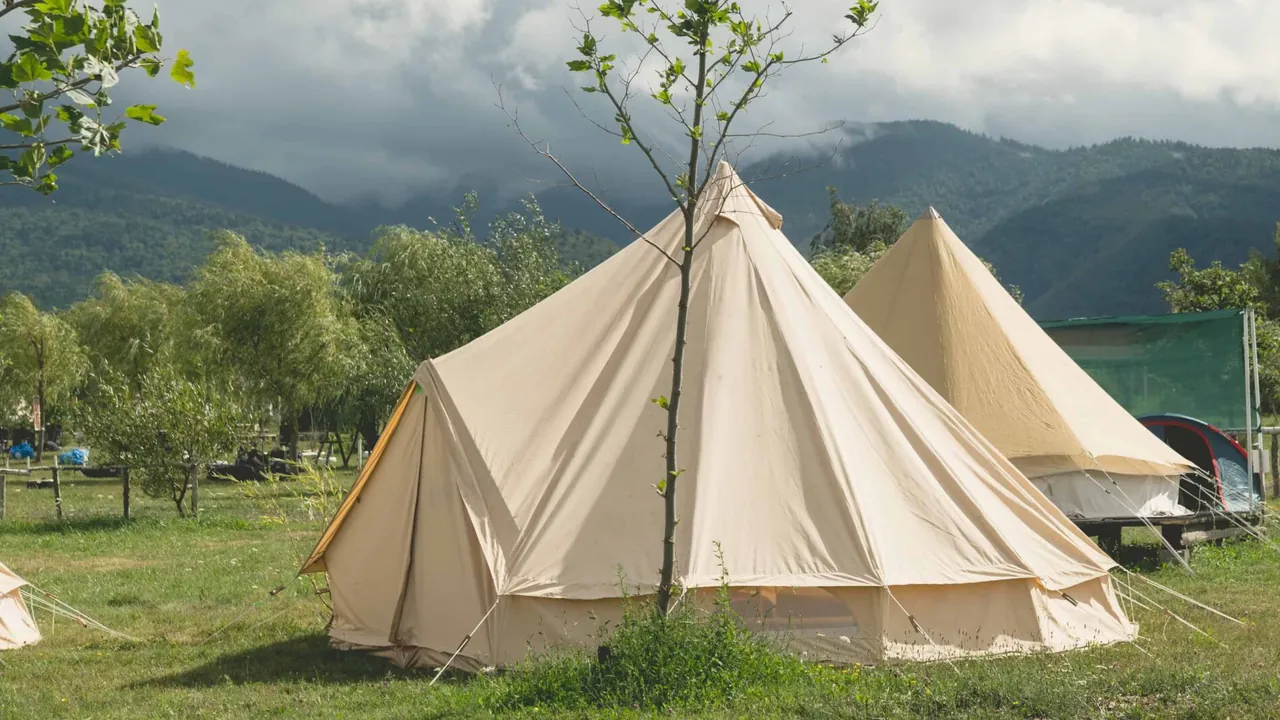
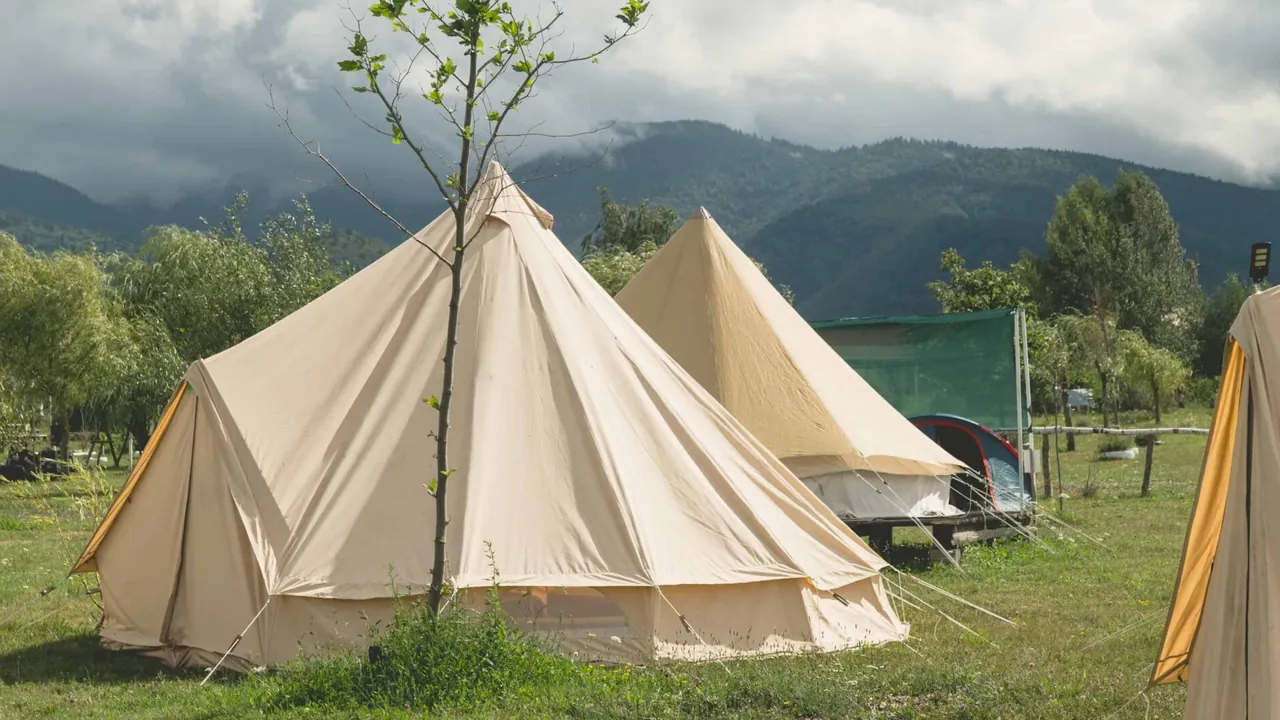
WIP: poze cu muntele și culori mai luminoase (agenți în lucru, nerevizuit)
Claude-Session: https://claude.ai/code/session_0131szi8JTkxRRMrieMFZrn5

diff --git a/gradina-ielelor-integration/assets/css/pages.css b/gradina-ielelor-integration/assets/css/pages.css
@@ -100,7 +100,7 @@
 .gi-page-hero-media { position: absolute; inset: 0; margin: 0; z-index: -2; }
 .gi-page-hero-media img { width: 100%; height: 100%; object-fit: cover; object-position: center 60%; background: var(--forest); }
 .gi-page-hero-overlay { position: absolute; inset: 0; z-index: -1; background:
-  linear-gradient(180deg, rgb(var(--shade) / .42) 0%, rgb(var(--shade) / 0) 22%),
+  linear-gradient(180deg, rgb(var(--shade) / .46) 0%, rgb(var(--shade) / 0) 22%),
   linear-gradient(0deg, rgb(var(--shade) / .42) 0%, rgb(var(--shade) / .16) 40%, rgb(var(--shade) / 0) 64%); }
 .gi-page-hero .gi-breadcrumb,
 .gi-dedicated .gi-page-hero .eyebrow { text-shadow: 0 1px 10px rgb(var(--shade) / .55); }
@@ -110,7 +110,7 @@
    începe cu puțin deasupra firului de navigare și, pe ecrane late, se stinge spre dreapta după coloana de text
    (50vw = marginea stângă a textului în acest bloc), ca restul fotografiei să rămână însorit. */
 .gi-page-hero-content::before { content: ""; position: absolute; z-index: -1; top: calc(var(--gi-hero-pad) - 64px); bottom: 0; left: -50vw; right: -50vw; pointer-events: none;
-  background: linear-gradient(180deg, rgb(var(--shade) / 0) 0, rgb(var(--shade) / .56) 64px, rgb(var(--shade) / .46) 60%, rgb(var(--shade) / .22) 100%);
+  background: linear-gradient(180deg, rgb(var(--shade) / 0) 0, rgb(var(--shade) / .6) 64px, rgb(var(--shade) / .5) 60%, rgb(var(--shade) / .24) 100%);
   -webkit-mask-image: linear-gradient(90deg, #000 calc(50vw + 560px), transparent calc(50vw + 1080px)); mask-image: linear-gradient(90deg, #000 calc(50vw + 560px), transparent calc(50vw + 1080px)); }
 .gi-page-hero h1 { font-family: var(--display); font-weight: 500; font-size: clamp(2.75rem, 7vw, 5.4rem); line-height: .98; letter-spacing: -.03em; margin: .28em 0 .32em; color: #fff; text-shadow: 0 2px 28px rgb(var(--shade) / .35); }
 .gi-page-hero h1 em { font-style: italic; color: var(--sun-light); }
@@ -305,7 +305,7 @@
     linear-gradient(180deg, rgb(var(--shade) / .42) 0%, rgb(var(--shade) / 0) 20%),
     linear-gradient(0deg, rgb(var(--shade) / .78) 0%, rgb(var(--shade) / .56) 36%, rgb(var(--shade) / .2) 62%, rgb(var(--shade) / 0) 82%); }
   /* Pe telefon textul ocupă toată lățimea: umbra nu se mai stinge spre dreapta. */
-  .gi-page-hero-content::before { -webkit-mask-image: none; mask-image: none; background: linear-gradient(180deg, rgb(var(--shade) / 0) 0, rgb(var(--shade) / .52) 64px, rgb(var(--shade) / .34) 55%, rgb(var(--shade) / 0) 100%); }
+  .gi-page-hero-content::before { -webkit-mask-image: none; mask-image: none; background: linear-gradient(180deg, rgb(var(--shade) / 0) 0, rgb(var(--shade) / .58) 64px, rgb(var(--shade) / .36) 55%, rgb(var(--shade) / 0) 100%); }
   .gi-page-hero-actions { flex-direction: column; align-items: stretch; gap: 6px; margin-top: 24px; }
   .gi-page-hero-actions .gi-hero-link { align-self: center; }
 

diff --git a/gradina-ielelor-integration/assets/css/site.css b/gradina-ielelor-integration/assets/css/site.css
@@ -76,7 +76,7 @@ body.admin-bar .gi-site .site-header{top:32px}
 .gi-site .home-booking-shell{padding:26px 28px 20px;background:radial-gradient(60% 120% at 100% 0%,rgba(255,216,168,.42) 0%,rgba(255,216,168,0) 70%),linear-gradient(180deg,var(--sky-100) 0%,var(--sky-50) 100%);border:1px solid rgba(29,99,128,.12)}
 .gi-site .booking-heading{display:flex;align-items:flex-end;justify-content:space-between;gap:50px;margin-bottom:20px}
 .gi-site .booking-heading h2{margin:10px 0 0;font-size:34px}
-.gi-site .booking-heading>p{max-width:440px;margin:0 0 4px;color:var(--muted);font-size:13px;line-height:1.7}
+.gi-site .booking-heading>p{max-width:440px;margin:0 0 4px;color:var(--text-2);font-size:13px;line-height:1.7}
 .gi-site .booking-panel{background:#fff;border:1px solid var(--line)}
 .gi-real-booking{padding:24px}
 .gi-real-booking .ovabrw_wd_search{width:100%}

diff --git a/gradina-ielelor-integration/includes/offer-pages.php b/gradina-ielelor-integration/includes/offer-pages.php
@@ -458,7 +458,7 @@ function gi_offer_pages() {
             array('q' => 'Pot organiza o nuntă sau un botez?', 'a' => 'Da, din mai 2027, când pavilionul de 225 mp este disponibil. Încap până la 150 de invitați, iar bucătăria licențiată e chiar pe domeniu.'),
             array('q' => 'Primiți și tabere sau grupuri?', 'a' => 'Da. Taberele de copii și grupurile găsesc aici un perimetru închis, pază 24 din 24 și cazare pe domeniu. Cere o ofertă și stabilim totul împreună.'),
         ),
-        'closing' => array('title' => 'Ai un eveniment în minte?', 'title_em' => 'Hai să vorbim.', 'image' => 'intrare-munte-1280.webp'),
+        'closing' => array('title' => 'Ai un eveniment în minte?', 'title_em' => 'Hai să vorbim.', 'image' => 'festival-standuri-1280.webp'),
         'seo' => array(
             'title' => 'Locație evenimente în aer liber, Brașov | Grădina Ielelor',
             'description' => 'Festivaluri, petreceri și evenimente de familie în Grădina Ielelor, Sâmbăta de Sus: 9 ha, aviz ISU pentru 5.000 de persoane, scenă permanentă, lacuri și cazare.',

diff --git a/gradina-ielelor-integration/includes/content.php b/gradina-ielelor-integration/includes/content.php
@@ -81,7 +81,7 @@ function gi_events_2027() {
 
 function gi_event_images() {
     return array(
-        array('src' => 'festival-mancare-munte-960.webp', 'alt' => 'Standuri de mâncare și oaspeți pe domeniu, cu Munții Făgăraș în fundal', 'caption' => 'Standuri de mâncare, sub munte'),
+        array('src' => 'intrare-munte-960.webp', 'alt' => 'Arcadă din lemn cu numele Grădinii, loc de fotografie, cu domeniul și Munții Făgăraș în fundal', 'caption' => 'Locul de fotografie de la intrare'),
         array('src' => 'festival-scena-960.webp', 'alt' => 'Spectacol de dansuri populare pe scenă, cu copii în public, la un eveniment în Grădina Ielelor', 'caption' => 'Festivaluri în mijlocul naturii'),
         array('src' => 'evenimente-foc-960.webp', 'alt' => 'Oaspeți în jurul focului de tabără, seara, în Grădina Ielelor', 'caption' => 'Seara, în jurul focului'),
         array('src' => 'festival-pavilion-640.webp', 'alt' => 'Oaspeți sub o terasă acoperită din lemn, la căderea serii', 'caption' => 'Petreceri și întâlniri'),
